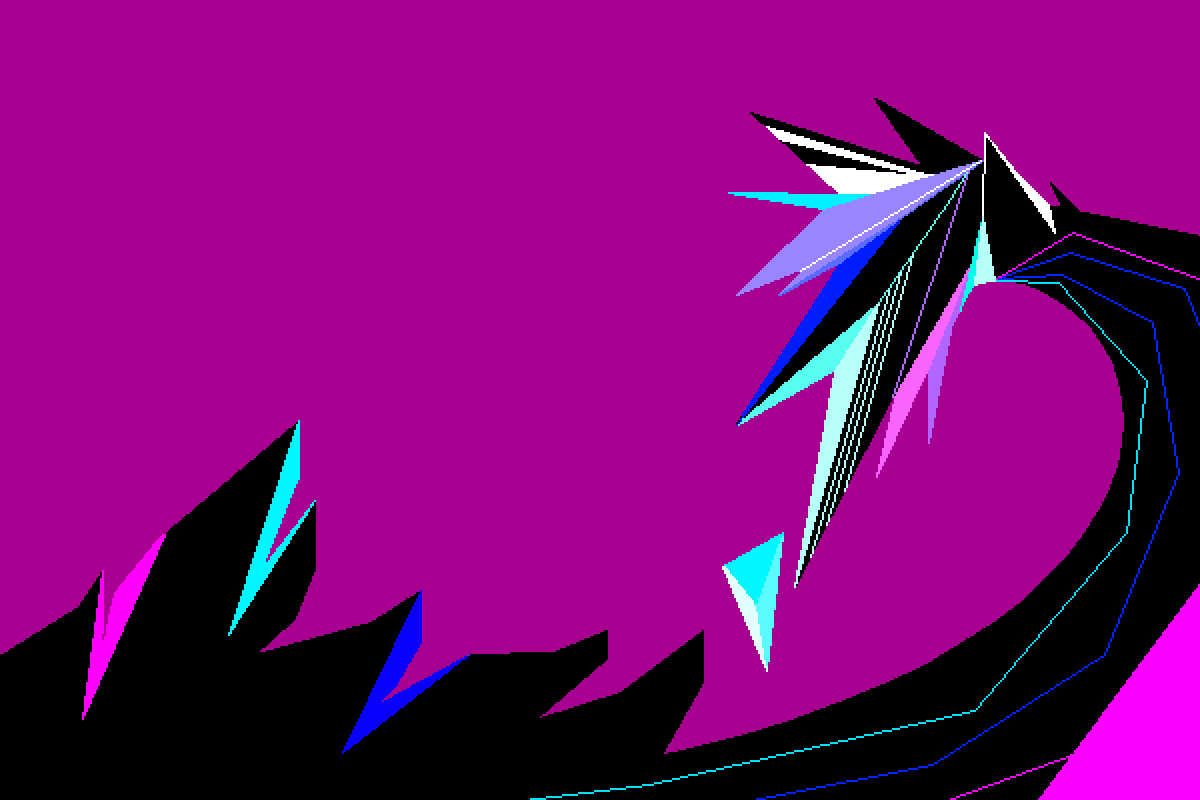
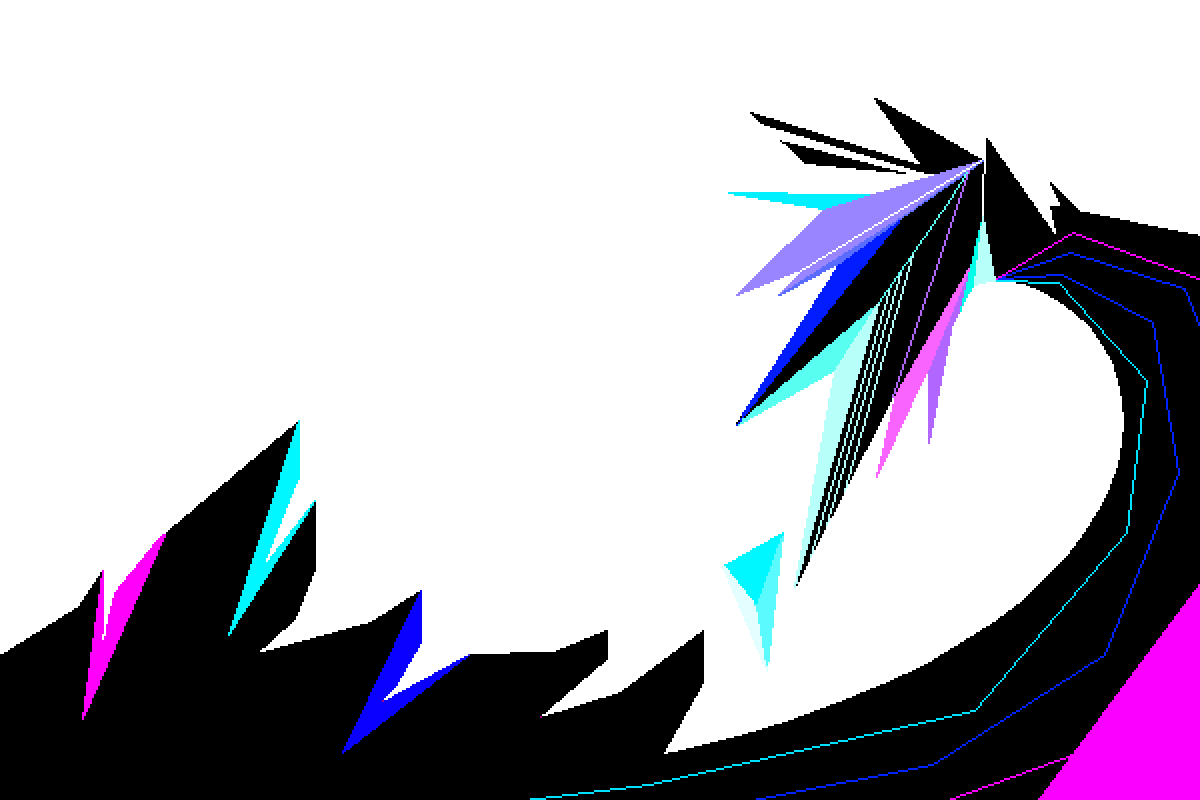
Finished character select screen

diff --git a/web/scripts/game/scenes/charSelect.js b/web/scripts/game/scenes/charSelect.js
@@ -13,6 +13,37 @@ loadScenes.charScene = function() {
       this.screendivider = 100
     },
     start: function() {
+      particleSystems.charBoxes = new ParticleSystem(0, 0)
+      for (let i = 0; i < 300; i++) {
+        let charBoxesParameters = {
+          width: Math.random() * 5 + 1,
+          speed: Math.random() * 3,
+          color: 180 + Math.random() * 180,
+        }
+        let charBoxesDisplay = function(worldPosition) {
+          push()
+          colorMode(HSB)
+          fill(this.parameters.color, 80, 255)
+          noStroke()
+          rect(worldPosition.x + this.pos.x, worldPosition.y + this.pos.y, this.parameters.width, this.parameters.width)
+          pop()
+        }
+        let charBoxesUpdate = function(worldPosition) {
+          this.pos.y -= this.parameters.speed
+        }
+        let charBoxesDestroy = function() {
+          if (collideRectRect(this.pos.x, this.pos.y, this.parameters.width, this.parameters.width, 0, 0, CANX, CANY)) {
+            return false
+          } else {
+            this.pos = {
+              x: this.pos.x,
+              y: CANY - 0.01
+            }
+          }
+        }
+        particleSystems.charBoxes.addParticle(Math.random() * CANX, Math.random() * CANY, {destroyFunction: charBoxesDestroy, displayFunction: charBoxesDisplay, updateFunction: charBoxesUpdate, parameters: charBoxesParameters})
+      }
+      
       let cornerWidth = 240
       gameButtons.back = createButton("Back")
         .parent('P5Container')
@@ -78,7 +109,7 @@ loadScenes.charScene = function() {
       let seperation = (CANX/2 - 20)/2
 
       let nameString = characters[char].name
-      fill(255)
+      fill(0, 255, 255)
       text(nameString, x + seperation - textWidth(nameString)/2, y + spacing)
 
       let statsObject = {
@@ -89,7 +120,7 @@ loadScenes.charScene = function() {
         "Power:": "-",
         "Defense:": characters[char].game.defence.toString()
       }
-      fill(0)
+      fill(255)
       let statKeys = Object.keys(statsObject)
       let t = 30
       for (let i = 0; i < statKeys.length; i++) {
@@ -110,18 +141,19 @@ loadScenes.charScene = function() {
         gameButtons.continueSelection.attribute("disabled", "")
       }
       background(0)
+      updateParticleSystems()
       image(ASSETS.namedImages.characterSelect, 0, 0, CANX, CANY)
       
       //selected characters
-      fill(100)
+      fill(55, 0, 55, 195)
+      stroke(0, 255, 255)
+      strokeWeight(2)
       let x = 10
       let y = CANY/2 + this.screendivider
       rect(x, y, CANX/2 - 20, CANY/2 - 10 - this.screendivider)
       if (this.selection.player1 !== null) {
         this.showStats(this.selection.player1, x, y)
       }
-
-      fill(100)
       x = CANX/2 + 10
       rect(x, y, CANX/2 - 20, CANY/2 - 10 - this.screendivider)
       if (this.selection.player2 !== null) {

diff --git a/web/scripts/game/scenes/hub.js b/web/scripts/game/scenes/hub.js
@@ -2,6 +2,17 @@
 loadScenes.hubScene = function() {
   ScenesManager.scenes[MAINMENU] = {
     preCompute: function() {
+      this.flippedBg = ASSETS.namedImages.modeSelectBG.tint(0, 255, 0)
+      this.accountOnlineImg = ASSETS.namedImages.account.tint(255, 0, 255)
+      //this.accountOnlineImg = this.accountOnlineImg.resize(16, 16)
+
+      //online, offline, back, account
+      //this.buttonSize = 450
+      //this.spacing = 20
+      //this.buttonLevel = 170//lower = bottom
+      //this.heightMult = 1/4.5
+    },
+    start: function() {
       //background moving boxes
       particleSystems.hubDataBoxes = new ParticleSystem(0, 0)
       for (let i = 0; i < 300; i++) {
@@ -37,17 +48,6 @@ loadScenes.hubScene = function() {
         }
         particleSystems.hubDataBoxes.addParticle(Math.random() * CANX, Math.random() * CANY, {destroyFunction: dataBoxDestroy, displayFunction: dataBoxDisplay, updateFunction: dataBoxUpdate, parameters: dataBoxParameters})
       }
-      this.flippedBg = ASSETS.namedImages.modeSelectBG.tint(0, 255, 0)
-      this.accountOnlineImg = ASSETS.namedImages.account.tint(255, 0, 255)
-      //this.accountOnlineImg = this.accountOnlineImg.resize(16, 16)
-
-      //online, offline, back, account
-      //this.buttonSize = 450
-      //this.spacing = 20
-      //this.buttonLevel = 170//lower = bottom
-      //this.heightMult = 1/4.5
-    },
-    start: function() {
       let b_height = this.buttonSize * this.heightMult
 
       gameButtons.logoutButton = createButton("Logout")

diff --git a/web/scripts/engine/sceneManager.js b/web/scripts/engine/sceneManager.js
@@ -73,6 +73,7 @@ class SceneManager {
         
         //this.transition.frameDelta = this.transition.frameLimit + 1
         clearPrompt()
+        clearParticleSystems()
         this.scenes[this.currentScene].start()
       }
       this.transition.frameDelta += timeScaler()
